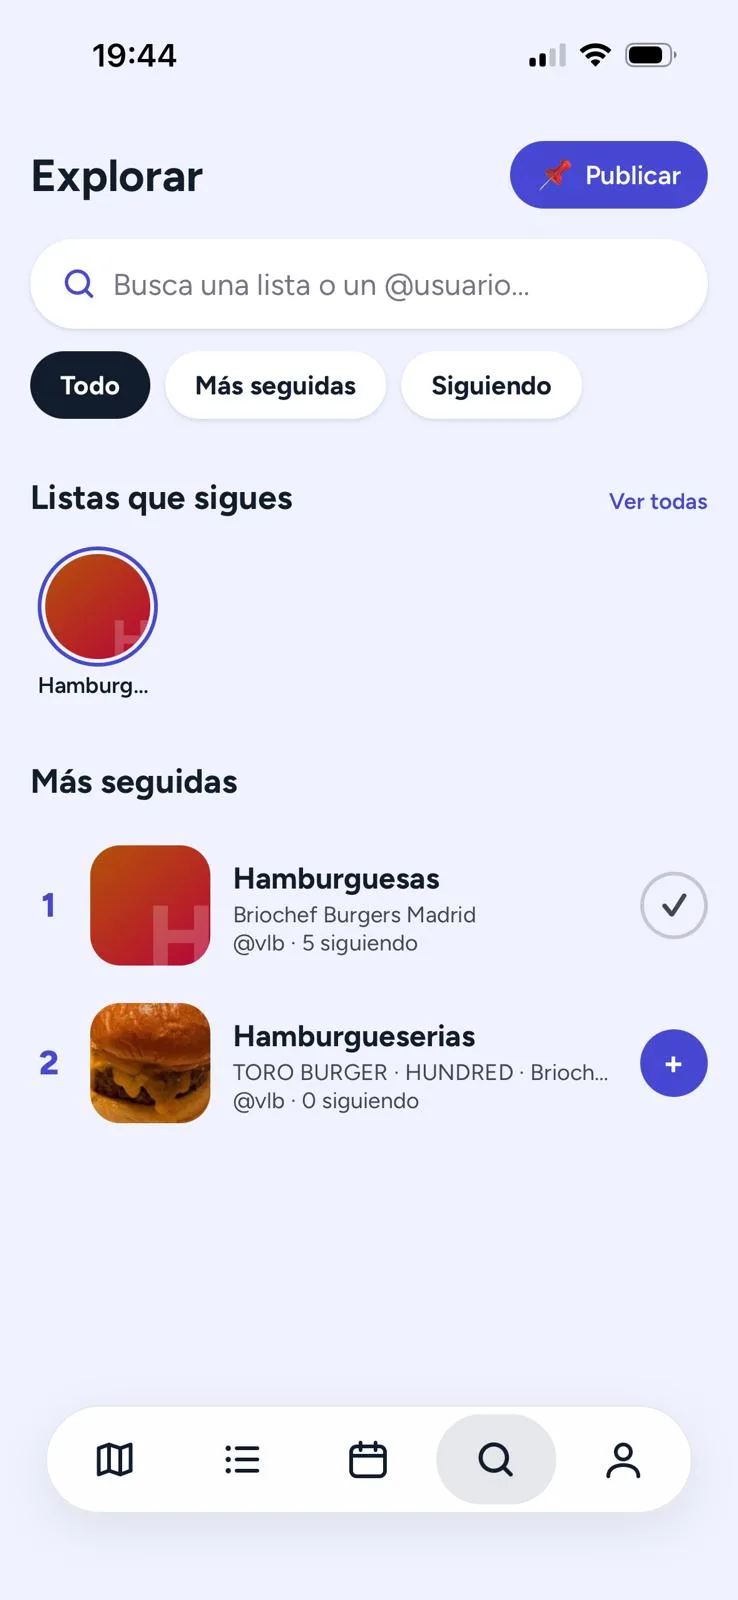
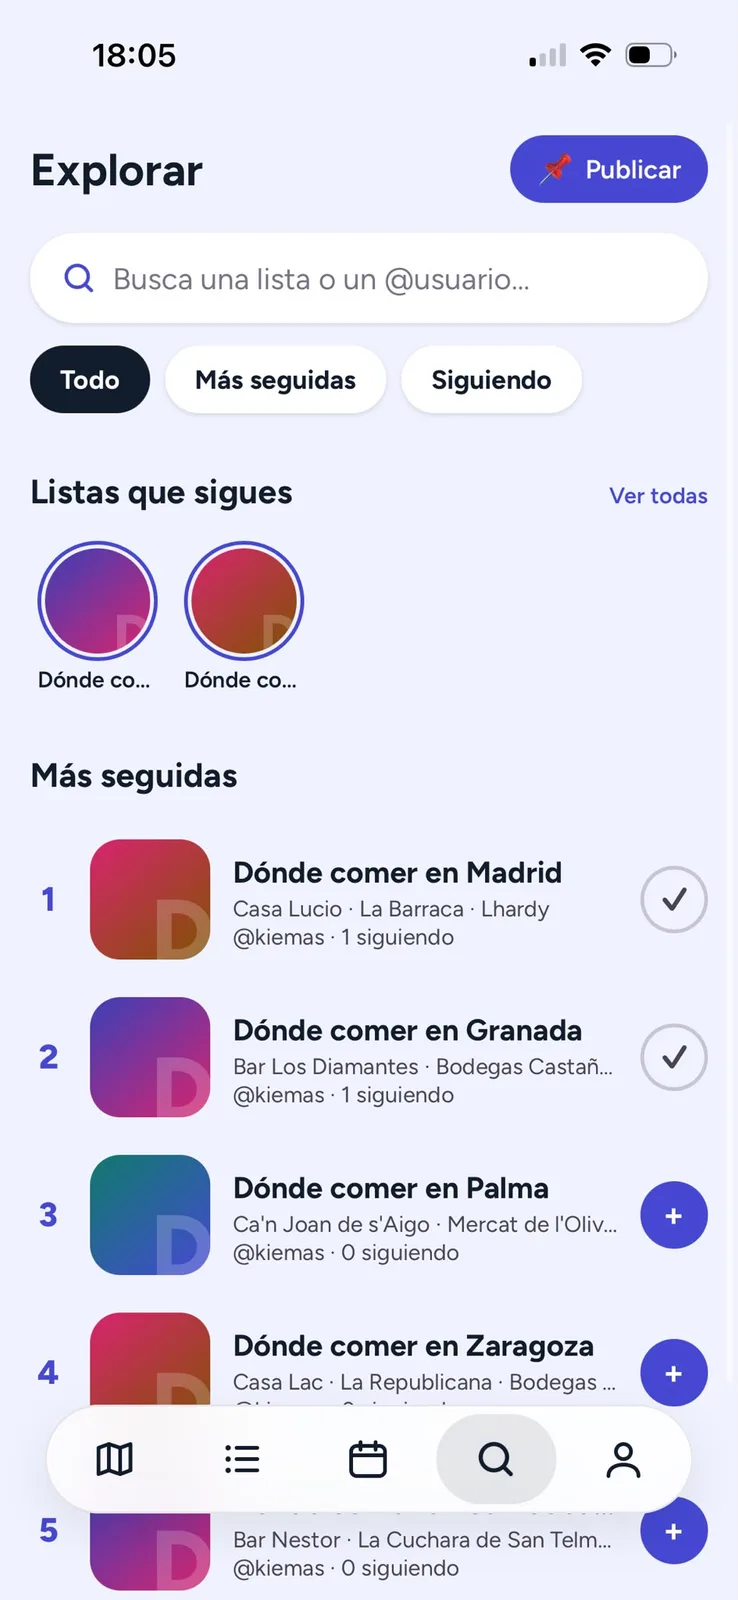
Landing: sin comillas ni guiones largos, captura nueva de Explorar y texto acorde

diff --git a/src/landing/copy/es.ts b/src/landing/copy/es.ts
@@ -9,7 +9,7 @@ export const es: TextoLanding = {
   nav: { descargar: 'Descargar', idioma: 'Idioma' },
 
   hero: {
-    titulo: 'De «a mí me da igual» a un plan de verdad.',
+    titulo: 'Del me da igual a un plan de verdad.',
     subtitulo:
       'Guardáis los sitios, proponéis cuándo y votáis lo que haga falta. Si nadie se decide, decide la ruleta.',
     cta: 'Descargar para iPhone',
@@ -45,7 +45,7 @@ export const es: TextoLanding = {
   problema: {
     titulo: 'El chat lleva tres días con esto.',
     cuerpo:
-      'Un enlace pegado, una captura, «¿qué os parece?» y silencio. La decisión está en algún punto del chat, y nadie sabe en cuál.',
+      'Un enlace pegado, una captura, un ¿qué os parece? y silencio. La decisión está en algún punto del chat y nadie sabe en cuál.',
     hilo: [
       { quien: 'Marta', texto: '¿Qué hacemos el sábado?' },
       { quien: 'Dani', texto: 'este tiene buena pinta 👉 maps.app.goo.gl/…' },
@@ -73,7 +73,7 @@ export const es: TextoLanding = {
       },
       {
         verbo: 'Votar',
-        titulo: 'Se vota, no se discute',
+        titulo: 'Votad en vez de discutir',
         cuerpo:
           'La fecha, el sitio o cualquier cosa que haya que acordar. Cada uno vota y se ve quién falta.',
       },
@@ -91,7 +91,7 @@ export const es: TextoLanding = {
       nombre: 'Mercado Norte',
       categoria: '🍽 Restaurantes',
       estado: '📌 Por ir',
-      nota: '«Pedid el pan de la casa, en serio»',
+      nota: 'Pedid el pan de la casa, en serio',
       quien: 'Lucía',
     },
     votar: {
@@ -133,7 +133,7 @@ export const es: TextoLanding = {
       titulo: 'Y si es una sorpresa, no se entera',
       cuerpo:
         'Preparad un plan para alguien del grupo. En su calendario solo verá que ese día tiene algo. Vosotros lo veis todo, y cuando toque, lo reveláis.',
-      alt: 'Comparación: el plan completo que ve quien lo prepara y la casilla «Algo te espera» que ve la persona sorprendida.',
+      alt: 'Comparación: el plan completo que ve quien lo prepara y la casilla Algo te espera que ve la persona sorprendida.',
       vistaAutor: 'Lo ves tú',
       vistaOtra: 'Lo que ve la otra persona',
       casilla: 'Algo te espera',
@@ -145,8 +145,8 @@ export const es: TextoLanding = {
     explorar: {
       titulo: 'Descubre listas de otra gente',
       cuerpo:
-        'Sigue las listas que publican otros —hamburguesas, terrazas, planes de lluvia— y llévate los sitios a tu mapa.',
-      alt: 'Pantalla de Kiemas: Explorar, con listas públicas de hamburgueserías y un buscador.',
+        'Sigue las listas que publican otros (dónde comer en Madrid, en Granada, en Palma) y llévate los sitios a tu mapa.',
+      alt: 'Pantalla de Kiemas: Explorar, con las listas más seguidas, como Dónde comer en Madrid, y un buscador.',
     },
   },
 
@@ -157,9 +157,9 @@ export const es: TextoLanding = {
     ruido: [
       '🔗 maps.app.goo.gl/…',
       '📷 Captura de pantalla',
-      '«¿qué os parece?»',
-      '«yo puedo el sábado… o no»',
-      '«pues ya vemos»',
+      '¿qué os parece?',
+      'yo puedo el sábado… o no',
+      'pues ya vemos',
     ],
   },
 

diff --git a/src/landing/copy/en.ts b/src/landing/copy/en.ts
@@ -9,7 +9,7 @@ export const en: TextoLanding = {
   nav: { descargar: 'Download', idioma: 'Language' },
 
   hero: {
-    titulo: 'From “I don’t mind” to an actual plan.',
+    titulo: 'From I don’t mind to an actual plan.',
     subtitulo:
       'Save places, pitch a day, vote on whatever needs deciding. If nobody picks, the wheel does.',
     cta: 'Download for iPhone',
@@ -45,7 +45,7 @@ export const en: TextoLanding = {
   problema: {
     titulo: 'The group chat’s been at this for three days.',
     cuerpo:
-      'A pasted link, a screenshot, “thoughts?”, then silence. The decision is somewhere in that thread. Nobody can find it.',
+      'A pasted link, a screenshot, a thoughts? and then silence. The decision is somewhere in that thread and nobody can find it.',
     hilo: [
       { quien: 'Sam', texto: 'so what are we doing saturday?' },
       { quien: 'Priya', texto: 'this one looks good 👉 maps.app.goo.gl/…' },
@@ -73,7 +73,7 @@ export const en: TextoLanding = {
       },
       {
         verbo: 'Vote',
-        titulo: 'Vote on it, don’t argue about it',
+        titulo: 'Vote instead of arguing',
         cuerpo:
           'The day, the place, or anything else that needs a call. Everyone votes, and you can see who hasn’t.',
       },
@@ -91,7 +91,7 @@ export const en: TextoLanding = {
       nombre: 'North Market',
       categoria: '🍽 Dining',
       estado: '📌 To try',
-      nota: '“Get the house bread. Trust me.”',
+      nota: 'Get the house bread. Trust me.',
       quien: 'Leo',
     },
     votar: {
@@ -133,7 +133,7 @@ export const en: TextoLanding = {
       titulo: 'And if it’s a surprise, they won’t know',
       cuerpo:
         'Plan something for someone in the group. On their calendar they only see that they’re busy that day. You see everything, and you reveal it when the time comes.',
-      alt: 'Comparison: the full plan its organiser sees, and the “Something’s waiting for you” slot the surprised person sees.',
+      alt: 'Comparison: the full plan its organiser sees, and the Something’s waiting for you slot the surprised person sees.',
       vistaAutor: 'What you see',
       vistaOtra: 'What they see',
       casilla: 'Something’s waiting for you',
@@ -145,8 +145,8 @@ export const en: TextoLanding = {
     explorar: {
       titulo: 'Find lists from other people',
       cuerpo:
-        'Follow the lists others publish — burgers, terraces, rainy-day plans — and take the places to your own map.',
-      alt: 'Kiemas screen: Explore, with public lists of burger places and a search bar.',
+        'Follow the lists others publish (where to eat in Madrid, Granada, Palma) and take the places to your own map.',
+      alt: 'Kiemas screen: Explore, with the most-followed lists, like Where to eat in Madrid, and a search bar.',
     },
   },
 
@@ -157,9 +157,9 @@ export const en: TextoLanding = {
     ruido: [
       '🔗 maps.app.goo.gl/…',
       '📷 Screenshot',
-      '“thoughts?”',
-      '“I can do saturday… maybe”',
-      '“guess we’ll see”',
+      'thoughts?',
+      'I can do saturday… maybe',
+      'guess we’ll see',
     ],
   },
 

diff --git a/src/landing/piezas.tsx b/src/landing/piezas.tsx
@@ -776,7 +776,7 @@ export function PiezaCompartir({ texto }: { texto: TextoLanding['como']['compart
             </span>
             <span className="min-w-0 text-xs text-on-surface">
               {texto.nota}
-              <span className="block text-[11px] text-on-surface-variant">— {texto.quien}</span>
+              <span className="block text-[11px] text-on-surface-variant">{texto.quien}</span>
             </span>
           </div>
         </div>
